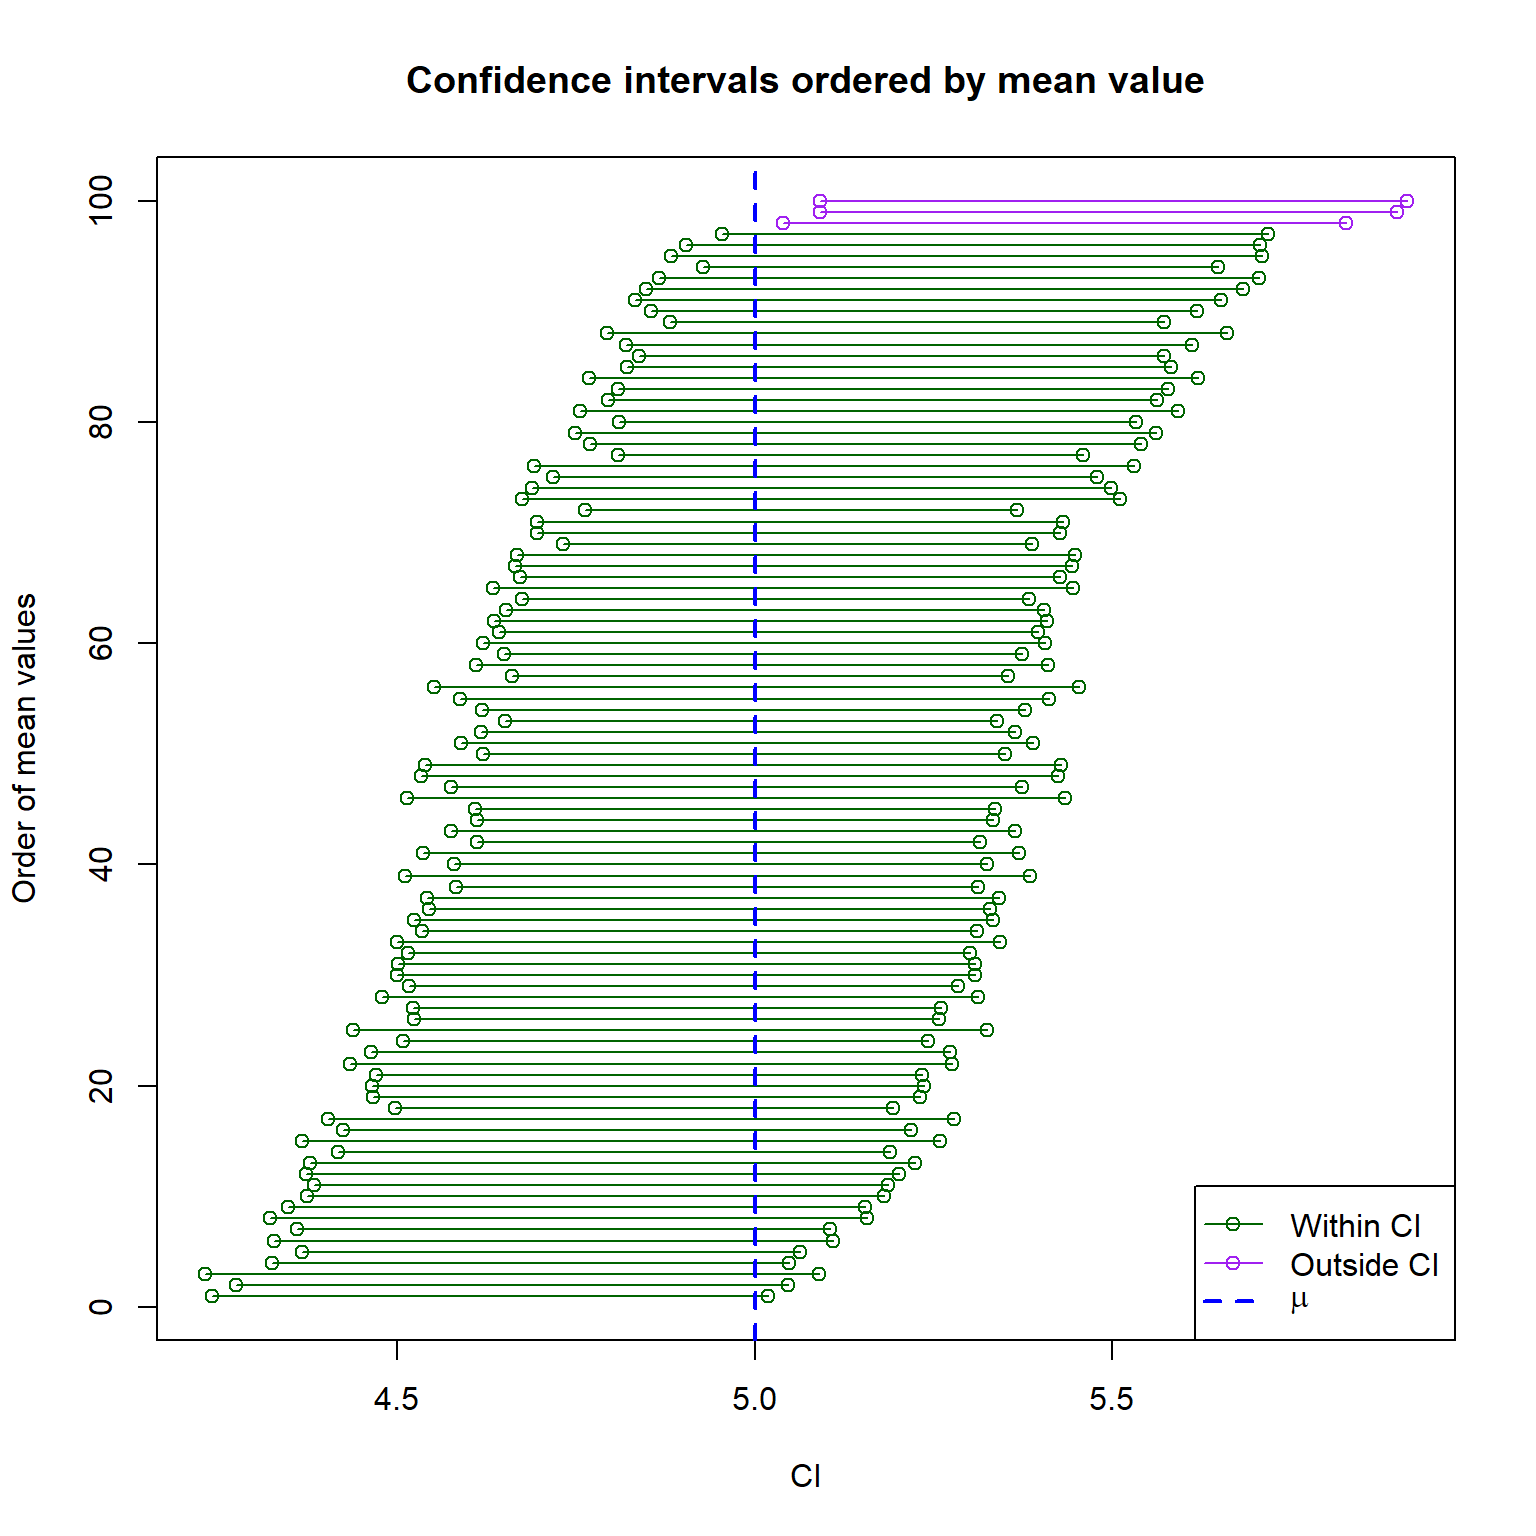
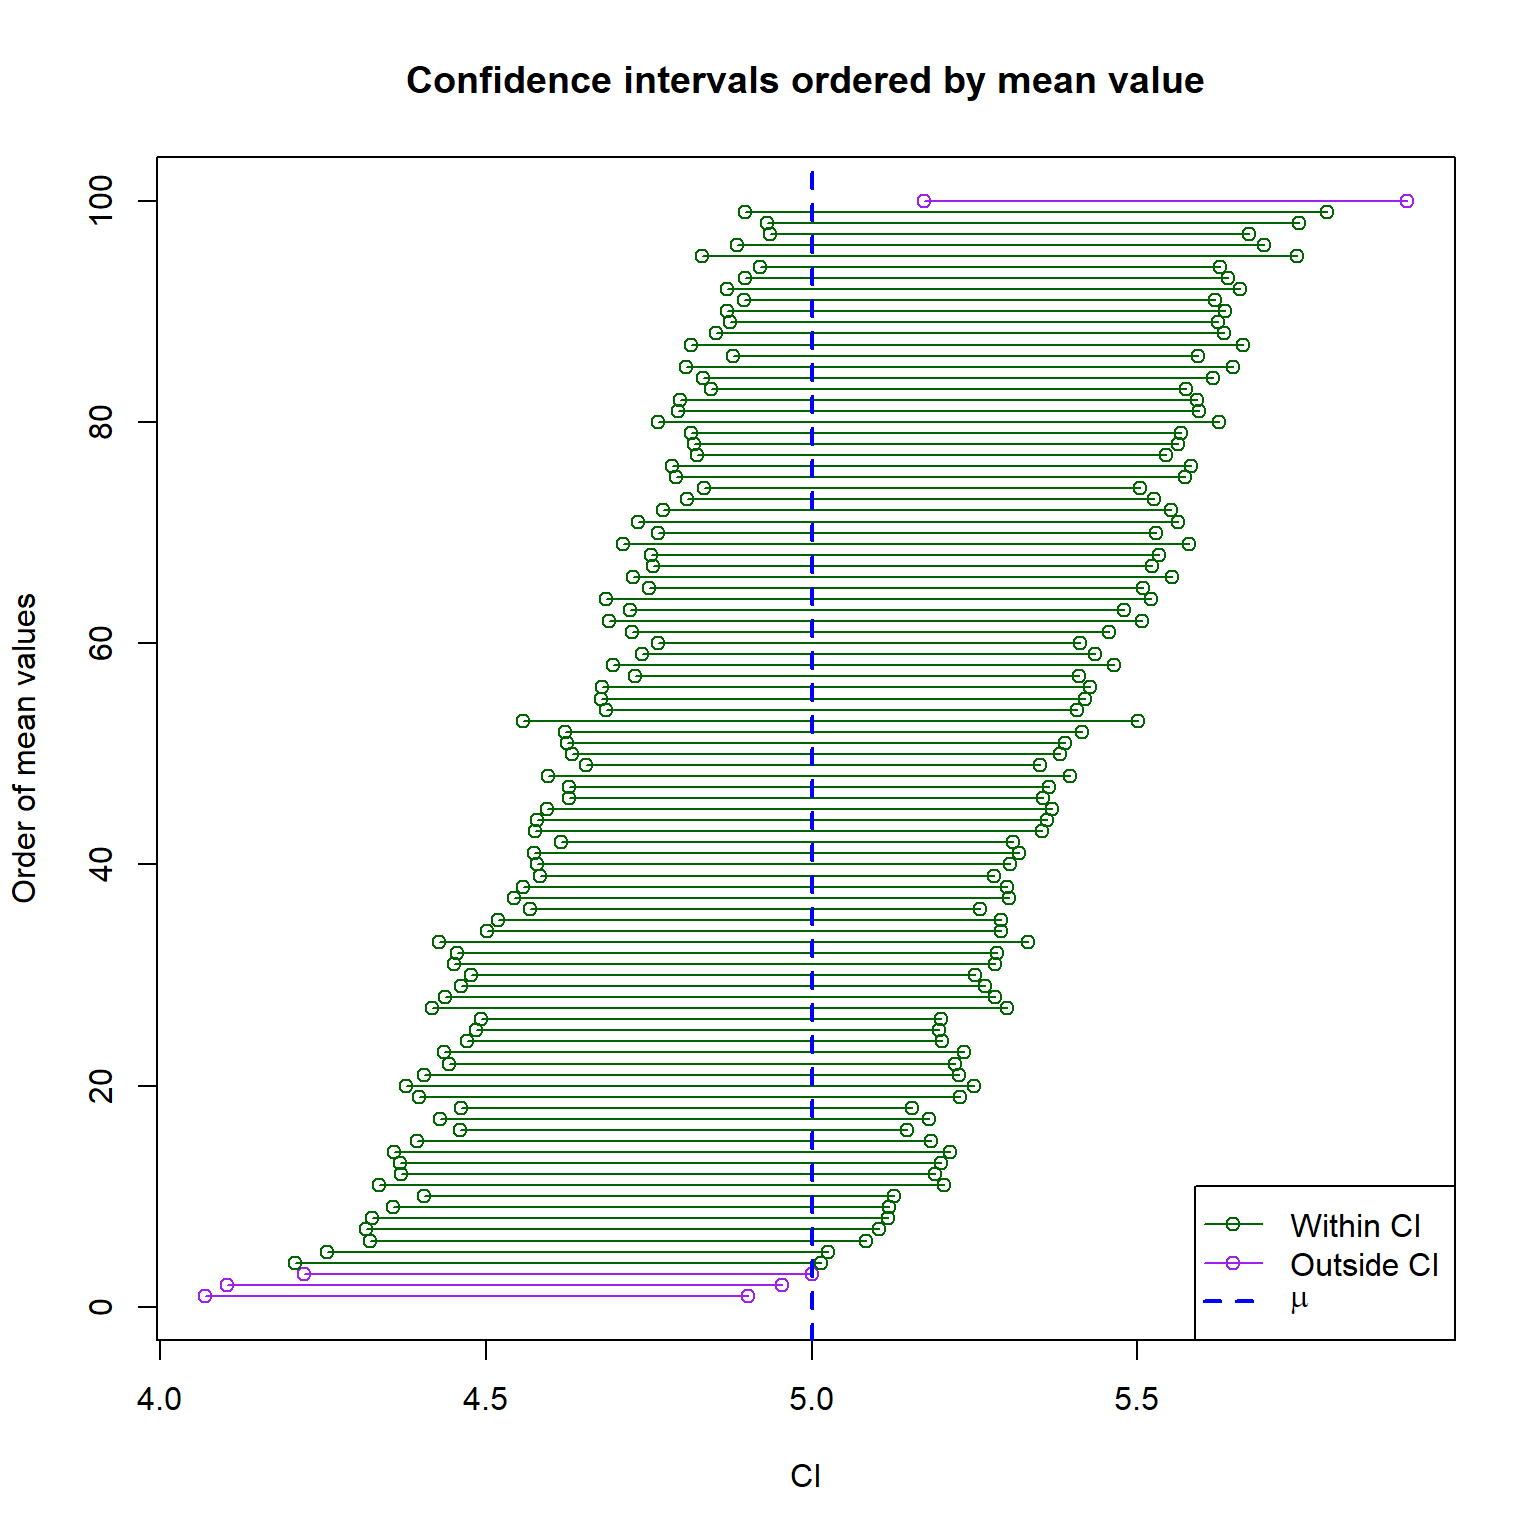
update plots with new seed

diff --git a/docs/posts/confidence-intervals/index.html b/docs/posts/confidence-intervals/index.html
@@ -239,7 +239,7 @@ code span.wa { color: #60a0b0; font-weight: bold; font-style: italic; } /* Warni
   \text{alpha level} &amp; \alpha &amp;=&amp; 0.95
 \end{array}
 \]</span></p>
-<div class="sourceCode cell-code" id="cb1"><pre class="sourceCode r code-with-copy"><code class="sourceCode r"><span id="cb1-1"><a href="#cb1-1" aria-hidden="true" tabindex="-1"></a><span class="fu">set.seed</span>(<span class="dv">20220717</span>)</span>
+<div class="sourceCode cell-code" id="cb1"><pre class="sourceCode r code-with-copy"><code class="sourceCode r"><span id="cb1-1"><a href="#cb1-1" aria-hidden="true" tabindex="-1"></a><span class="fu">set.seed</span>(<span class="dv">20220804</span>)</span>
 <span id="cb1-2"><a href="#cb1-2" aria-hidden="true" tabindex="-1"></a>n <span class="ot">&lt;-</span> <span class="dv">100</span></span>
 <span id="cb1-3"><a href="#cb1-3" aria-hidden="true" tabindex="-1"></a>mu <span class="ot">&lt;-</span> <span class="dv">5</span></span>
 <span id="cb1-4"><a href="#cb1-4" aria-hidden="true" tabindex="-1"></a>sigma <span class="ot">&lt;-</span> <span class="dv">2</span></span>
@@ -264,11 +264,11 @@ code span.wa { color: #60a0b0; font-weight: bold; font-style: italic; } /* Warni
 <tbody>
 <tr class="odd">
 <td>Mean <span class="math inline">\(\bar{x}\)</span></td>
-<td>4.9500274</td>
+<td>5.4082339</td>
 </tr>
 <tr class="even">
 <td>Standard deviation <span class="math inline">\(s\)</span></td>
-<td>1.9529123</td>
+<td>1.9219276</td>
 </tr>
 <tr class="odd">
 <td>Z-score (<span class="math inline">\(z\)</span>)</td>
@@ -305,7 +305,7 @@ code span.wa { color: #60a0b0; font-weight: bold; font-style: italic; } /* Warni
 <span id="cb2-15"><a href="#cb2-15" aria-hidden="true" tabindex="-1"></a>})</span>
 <span id="cb2-16"><a href="#cb2-16" aria-hidden="true" tabindex="-1"></a></span>
 <span id="cb2-17"><a href="#cb2-17" aria-hidden="true" tabindex="-1"></a><span class="fu">str</span>(r_mean_ci)</span>
-<span id="cb2-18"><a href="#cb2-18" aria-hidden="true" tabindex="-1"></a><span class="co">#&gt;  num [1:2, 1:100] 4.95 5.72 4.53 5.42 4.61 ...</span></span>
+<span id="cb2-18"><a href="#cb2-18" aria-hidden="true" tabindex="-1"></a><span class="co">#&gt;  num [1:2, 1:100] 4.77 5.55 4.76 5.52 4.63 ...</span></span>
 <span id="cb2-19"><a href="#cb2-19" aria-hidden="true" tabindex="-1"></a><span class="co">#&gt;  - attr(*, "dimnames")=List of 2</span></span>
 <span id="cb2-20"><a href="#cb2-20" aria-hidden="true" tabindex="-1"></a><span class="co">#&gt;   ..$ : chr [1:2] "lower" "upper"</span></span>
 <span id="cb2-21"><a href="#cb2-21" aria-hidden="true" tabindex="-1"></a><span class="co">#&gt;   ..$ : NULL</span></span></code><button title="Copy to Clipboard" class="code-copy-button"><i class="bi"></i></button></pre></div>
@@ -319,7 +319,7 @@ code span.wa { color: #60a0b0; font-weight: bold; font-style: italic; } /* Warni
 <div class="cell">
 <div class="sourceCode cell-code" id="cb4"><pre class="sourceCode r code-with-copy"><code class="sourceCode r"><span id="cb4-1"><a href="#cb4-1" aria-hidden="true" tabindex="-1"></a>are_between <span class="ot">&lt;-</span> r_mean_ci[<span class="st">"lower"</span>, ] <span class="sc">&lt;</span> mu <span class="sc">&amp;</span> r_mean_ci[<span class="st">"upper"</span>, ] <span class="sc">&gt;</span> mu</span>
 <span id="cb4-2"><a href="#cb4-2" aria-hidden="true" tabindex="-1"></a><span class="fu">mean</span>(are_between)</span>
-<span id="cb4-3"><a href="#cb4-3" aria-hidden="true" tabindex="-1"></a><span class="co">#&gt; [1] 0.97</span></span></code><button title="Copy to Clipboard" class="code-copy-button"><i class="bi"></i></button></pre></div>
+<span id="cb4-3"><a href="#cb4-3" aria-hidden="true" tabindex="-1"></a><span class="co">#&gt; [1] 0.96</span></span></code><button title="Copy to Clipboard" class="code-copy-button"><i class="bi"></i></button></pre></div>
 </div>
 </section>
 <section id="plotting-confidence-intervals-objective-3" class="level3">
